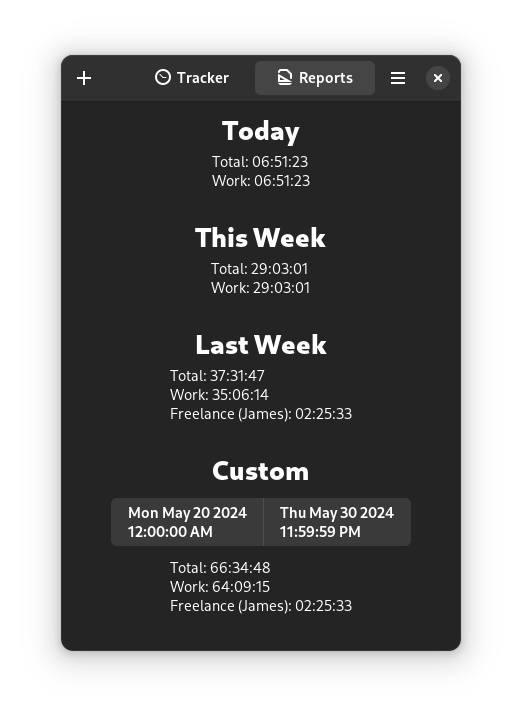
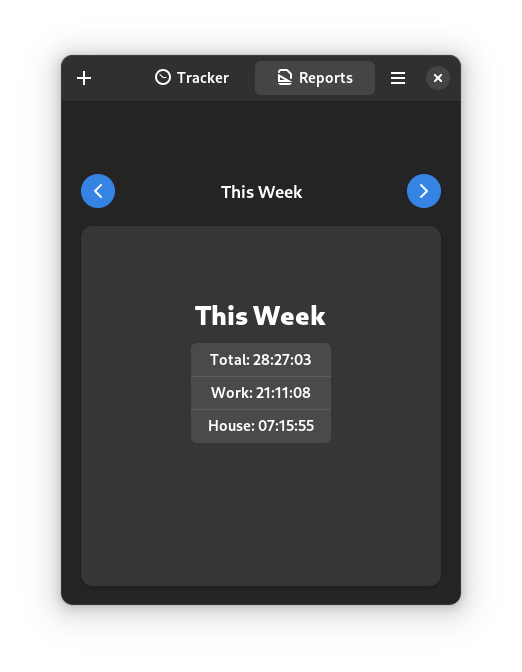
Adding feature updates
- [ ] If log is re-found while lost dialog is still open, close the dialog and keep going
- [ ] Added ability to add clients and projects
- [ ] Updated brand colors
- [ ] Updated screenshots
- [ ] Added keyboard shortcuts.
	- [ ] Ctrl+Space = start/stop
	- [ ] Ctrl+Z, Ctrl+Y, Ctrl+O, Ctrl+N
- [ ] Updated version in metainfo, about, and gsetting

diff --git a/src/window.js b/src/window.js
@@ -152,7 +152,9 @@ export const TimeTrackerWindow = GObject.registerClass({
   InternalChildren: ['status', 'startbutton', 'projectlist',
   'list_box_editable', 'add', 'report1', 'report2', 'report3', 'toast_overlay',
   'customreport', 'reportstart', 'reportend', 'reportproject', 'reportbilled',
-  'reportgroup', 'reporttag', 'reportclient', 'metaentry'],
+  'reportgroup', 'reporttag', 'reportclient', 'metaentry',
+  'next_button', 'nav_pageone', 'nav_pagetwo', 'nav_pagethree',
+  'nav_pagefour', 'nav_view', 'next_button', 'previous_button', 'nav_title'],
 }, class TimeTrackerWindow extends Adw.ApplicationWindow {
 
   // Connecting with the gsettings for Time Tracker
@@ -182,6 +184,29 @@ export const TimeTrackerWindow = GObject.registerClass({
     } catch (_) {
       this.setprojects();
     }
+
+    // Navigation view
+    this._next_button.connect("clicked", () => {
+      switch (this._nav_view.visible_page) {
+        case this._nav_pageone:
+          this._nav_view.push(this._nav_pagetwo);
+          break;
+        case this._nav_pagetwo:
+          this._nav_view.push(this._nav_pagethree);
+          break;
+        case this._nav_pagethree:
+          this._nav_view.push(this._nav_pagefour);
+          break;
+      }
+    });
+    this._previous_button.connect("clicked", () => {
+      this._nav_view.pop();
+    });
+    this._nav_view.connect("notify::visible-page", () => {
+      this._previous_button.sensitive = this._nav_view.visible_page !== this._nav_pageone;
+      this._next_button.sensitive = this._nav_view.visible_page !== this._nav_pagefour;
+      this._nav_title.label = this._nav_view.visible_page.title;
+    });
 
     // Connecting the start/stop button with the proper function
     const startstopAction = new Gio.SimpleAction({name: 'start'});
@@ -228,9 +253,18 @@ export const TimeTrackerWindow = GObject.registerClass({
       // When the selected project changes, change the project in the currently running entry, if any
       if (!nochange && selection && logging) {
         const value = selection.value;
-        this.editrunningentrybyIndex(value);
+        this.editrunningentrybyIndex(value, entries[this.currentTimer()].meta);
       }
+    });
 
+    this._metaentry.connect("changed", () => {
+      if (!nochange && logging) {
+        if (this._metaentry.get_text() != "") {
+          this.editrunningentrybyIndex(entries[this.currentTimer()].project, this._metaentry.get_text());
+        } else {
+          this.editrunningentrybyIndex(entries[this.currentTimer()].project, null);
+        }
+      }
     });
 
     // Defining the model for the log
@@ -968,14 +1002,14 @@ export const TimeTrackerWindow = GObject.registerClass({
   }
 
   // Update the project of the currently running entry
-  async editrunningentrybyIndex(theproject) {
+  async editrunningentrybyIndex(theproject, meta) {
     let current = this.currentTimer();
     if (current) {
       //Is this code needed? {{{
       if (theproject == "") {
         theproject = entries[current].project;
       }
-      this.editentry_user(current, theproject, entries[current].start, null, entries[current].billed, entries[current].meta);
+      this.editentry_user(current, theproject, entries[current].start, null, entries[current].billed, meta);
     }
   }
 
@@ -1024,7 +1058,7 @@ export const TimeTrackerWindow = GObject.registerClass({
       box.append(projectlist2);
 
       const metaentry2 = new Gtk.Entry({
-        placeholder_text: "Description #tags",
+        placeholder_text: "Description  #tag  @client",
       });
       if (meta) {
         metaentry2.set_text(meta);
@@ -1130,6 +1164,7 @@ export const TimeTrackerWindow = GObject.registerClass({
               theproject = value;
               nochange = true;
               this._projectlist.set_selected(projectlist2.get_selected());
+              this._metaentry.set_text(metaentry2.get_text());
               nochange = false;
             }
             if (metaentry2.get_text() != "") {
@@ -1169,7 +1204,7 @@ export const TimeTrackerWindow = GObject.registerClass({
   async editprojectdialog() {
     const dialog = new Adw.AlertDialog({
       heading: "Edit Projects",
-      body: "Separate projects with line breaks.",
+      body: "Separate projects with line breaks. You can include #tags and @clients.",
       close_response: "cancel",
     });
 
@@ -1464,6 +1499,7 @@ export const TimeTrackerWindow = GObject.registerClass({
 
     try {
       this._projectlist.set_selected(0); // Reset project to (no project)
+      this._metaentry.set_text("");
     } catch (error) {
       console.log(error);
     }
@@ -1613,9 +1649,9 @@ export const TimeTrackerWindow = GObject.registerClass({
       this._report3.append(this._reportsbox3);
 
 
-      this.displayfilter(this._reportsbox1, null, false, 1, todayStart, todayEnd);
-      this.displayfilter(this._reportsbox2, null, false, 1, thisWeekStart, todayEnd);
-      this.displayfilter(this._reportsbox3, null, false, 1, lastWeekStart, lastWeekEnd);
+      this.displayfilter(this._reportsbox1, "Today", false, 1, todayStart, todayEnd);
+      this.displayfilter(this._reportsbox2, "This Week", false, 1, thisWeekStart, todayEnd);
+      this.displayfilter(this._reportsbox3, "Last Week", false, 1, lastWeekStart, lastWeekEnd);
 
       this.displaycustomfilter();
     } catch (e) {
@@ -1721,6 +1757,8 @@ export const TimeTrackerWindow = GObject.registerClass({
         output.desc = new Gtk.Label({
           label: description,
           wrap: true,
+          margin_top: 12,
+          margin_bottom: 12,
         });
       }
 
@@ -2838,8 +2876,8 @@ export const TimeTrackerWindow = GObject.registerClass({
         }
 
         // Find out what project the current entry has, and set projectlist to match
-        if (this.currentTimer()) {
-          this.setproject(entries[this.currentTimer()].project);
+        if (this.currentTimer() != null) {
+          this.setprojectandmeta(entries[this.currentTimer()].project, entries[this.currentTimer()].meta);
         }
       } catch (e) {
         console.log(e);
@@ -2850,15 +2888,20 @@ export const TimeTrackerWindow = GObject.registerClass({
     }
   }
 
-  // Set the selected project. This could potentially be used some other places
-  async setproject(theproject) {
+  // Set the selected project without making a change. This could potentially be used some other places
+  async setprojectandmeta(theproject, meta) {
     if (theproject != "(no project)") {
       let projectindex = projects.indexOf(theproject);
+      nochange = true;
       if (projectindex !== -1) {
-        nochange = true;
         this._projectlist.set_selected(projectindex);
-        nochange = false;
       }
+      if (meta) {
+        this._metaentry.set_text(meta);
+      } else {
+        this._metaentry.set_text("");
+      }
+      nochange = false;
     }
   }
 

diff --git a/src/main.js b/src/main.js
@@ -9,10 +9,18 @@ import { TimeTrackerWindow } from './window.js';
 pkg.initGettext();
 pkg.initFormat();
 
+
 export const TimeTrackerApplication = GObject.registerClass(
     class TimeTrackerApplication extends Adw.Application {
         constructor() {
             super({application_id: 'com.lynnmichaelmartin.TimeTracker', flags: Gio.ApplicationFlags.DEFAULT_FLAGS});
+
+            this.set_accels_for_action('win.open', [ '<Ctrl>o' ]);
+            this.set_accels_for_action('win.new', [ '<Ctrl>n' ]);
+            this.set_accels_for_action('win.import', [ '<Ctrl>m' ]);
+            this.set_accels_for_action('win.undo', [ '<Ctrl>z' ]);
+            this.set_accels_for_action('win.redo', [ '<Ctrl>y' ]);
+            this.set_accels_for_action('win.start', [ '<Ctrl>space' ]);
 
             const quit_action = new Gio.SimpleAction({name: 'quit'});
                 quit_action.connect('activate', action => {
@@ -28,7 +36,7 @@ export const TimeTrackerApplication = GObject.registerClass(
                     application_name: 'time-tracker',
                     application_icon: 'com.lynnmichaelmartin.TimeTracker',
                     developer_name: 'Lynn Martin',
-                    version: '1.1.7',
+                    version: '1.1.8',
                     developers: [
                         'Lynn Martin'
                     ],
